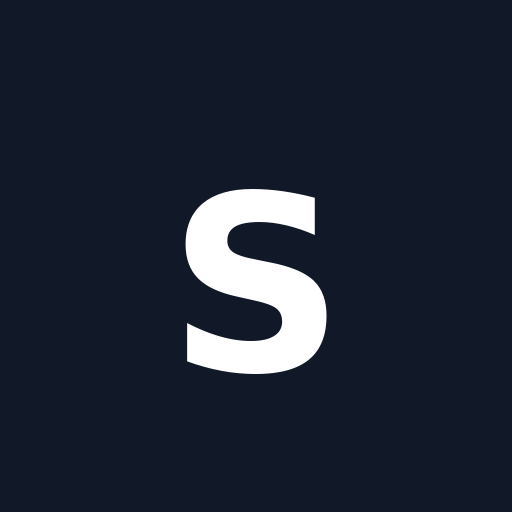
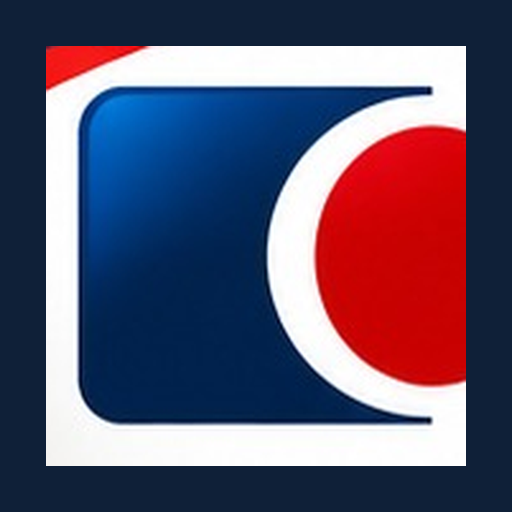
Add files via upload

diff --git a/app/src/main/assets/www/style.css b/app/src/main/assets/www/style.css
@@ -1,1 +1,1 @@
-*{box-sizing:border-box}html{scroll-behavior:smooth}body{margin:0;background:#f5f7fb;color:#172033;font-family:Arial,sans-serif;padding-bottom:78px}body.modal-open{overflow:hidden}header{height:70px;background:#fff;border-bottom:1px solid #e6e9ef;display:flex;align-items:center;justify-content:space-between;padding:0 20px;position:sticky;top:0;z-index:5}.search-icon{border:0;background:none;font-size:28px;cursor:pointer}.brand{display:flex;align-items:center;gap:10px}.brand>b{width:40px;height:40px;border-radius:12px;background:#111827;color:#fff;display:grid;place-items:center;font-size:22px}.brand strong,.brand small{display:block}.brand strong{font-size:19px}.brand small{color:#7b8495;font-size:11px;margin-top:3px}.hero{background:#fff;padding:28px 20px 22px}.hero label{font-size:11px;font-weight:800;letter-spacing:1.5px;color:#7a8494}.hero h1{font-size:29px;margin:8px 0}.hero p{color:#6e7889;font-size:14px;margin:0 0 18px}.search{height:50px;background:#f7f8fa;border:1px solid #e0e5ed;border-radius:14px;display:flex;align-items:center;padding:0 13px;gap:8px}.search input{border:0;outline:0;background:none;width:100%;font-size:14px}.section,section{padding:21px 20px 0;max-width:1200px;margin:auto}.head{display:flex;justify-content:space-between;align-items:center;margin-bottom:12px}.head h2{font-size:18px;margin:0}.head button{border:0;background:none;font-weight:700;color:#475569;cursor:pointer}.head em{font-style:normal;background:#e9edf3;border-radius:20px;padding:5px 9px;font-size:12px}.cats{display:flex;gap:8px;overflow:auto;padding-bottom:4px;scrollbar-width:none}.cats::-webkit-scrollbar{display:none}.cat{white-space:nowrap;border:1px solid #e1e6ee;background:#fff;border-radius:13px;padding:11px 13px;font-weight:700;font-size:12px;cursor:pointer}.cat.active{background:#111827;color:#fff}.status{font-size:12px;color:#7b8495;margin:0 0 10px}.grid{display:grid;grid-template-columns:repeat(2,minmax(0,1fr));gap:13px}.card{background:#fff;border:1px solid #e5e9ef;border-radius:16px;overflow:hidden;box-shadow:0 2px 8px rgba(20,32,51,.03)}.card-main{padding:0;border:0;background:none;width:100%;text-align:left;cursor:pointer}.cover{height:175px;background:linear-gradient(135deg,#eef1f5,#dfe4eb);display:grid;place-items:center;position:relative;overflow:hidden}.cover img{width:100%;height:100%;object-fit:cover;transition:transform .25s}.card:hover .cover img{transform:scale(1.02)}.mark{font-size:42px;font-weight:900;color:#7a8494}.tag{position:absolute;top:9px;left:9px;background:#fff;padding:5px 7px;border-radius:8px;font-size:9px;font-weight:800;box-shadow:0 2px 8px rgba(0,0,0,.08)}.body{padding:12px}.brand-name{font-size:10px;color:#8992a1;font-weight:800;text-transform:uppercase}.body h3{font-size:14px;margin:4px 0 6px;color:#172033}.body p{font-size:11px;color:#7a8494;min-height:30px;margin:0}.card-actions{display:grid;grid-template-columns:1fr 1fr;gap:7px;padding:0 12px 12px}.btn{border:1px solid #dfe4ea;border-radius:10px;padding:10px 6px;text-align:center;text-decoration:none;font-size:11px;font-weight:800;color:#263244;background:#fff;cursor:pointer;display:inline-flex;align-items:center;justify-content:center;min-height:38px}.primary{background:#111827;color:#fff;border-color:#111827}.empty{grid-column:1/-1;text-align:center;padding:38px 20px;background:#fff;border:1px dashed #dce1e8;border-radius:15px;color:#7b8495}.empty strong,.empty span{display:block}.empty strong{color:#354154;margin-bottom:5px}.empty span{font-size:12px}nav{position:fixed;bottom:0;left:0;right:0;height:68px;padding-bottom:env(safe-area-inset-bottom);background:#fff;border-top:1px solid #e6e9ef;display:flex;justify-content:center;gap:50px;z-index:10}nav button{border:0;background:none;color:#8a93a2;font-size:21px;cursor:pointer}nav button.active{color:#111827}nav small{display:block;font-size:10px;font-weight:bold}.modal-root{display:none}.modal-root.open{display:block}.modal-backdrop{position:fixed;inset:0;background:rgba(15,23,42,.58);z-index:50;display:flex;align-items:flex-end;justify-content:center;padding:0}.modal{position:relative;background:#fff;width:100%;max-width:620px;max-height:92vh;overflow:auto;border-radius:22px 22px 0 0;box-shadow:0 -10px 40px rgba(0,0,0,.2)}.close{position:absolute;right:12px;top:12px;width:38px;height:38px;border:0;border-radius:50%;background:rgba(255,255,255,.94);font-size:26px;line-height:1;z-index:2;cursor:pointer}.detail-cover{height:310px;background:linear-gradient(135deg,#eef1f5,#dfe4eb);display:grid;place-items:center;overflow:hidden}.detail-cover img{width:100%;height:100%;object-fit:cover}.detail-mark{font-size:80px;font-weight:900;color:#7a8494}.detail-content{padding:20px}.detail-tag{display:inline-block;background:#eef2f6;border-radius:8px;padding:6px 8px;font-size:10px;font-weight:800}.detail-brand{font-size:11px;color:#8992a1;font-weight:800;text-transform:uppercase;margin-top:14px}.detail-content h2{font-size:23px;margin:5px 0 8px}.detail-content p{color:#687386;font-size:13px;line-height:1.55;margin:0 0 18px}.detail-actions{display:grid;grid-template-columns:1fr 1fr;gap:8px}.detail-actions .btn:last-child{grid-column:1/-1}.big{min-height:44px;font-size:12px}@media(min-width:760px){.grid{grid-template-columns:repeat(4,1fr)}.cover{height:210px}.modal-backdrop{align-items:center;padding:20px}.modal{border-radius:22px;max-height:88vh}.detail-cover{height:340px}}@media(max-width:390px){.grid{grid-template-columns:1fr}.cover{height:210px}.card-actions{grid-template-columns:1fr 1fr}.hero h1{font-size:26px}}
+*{box-sizing:border-box}html{scroll-behavior:smooth}body{margin:0;background:#f5f7fb;color:#172033;font-family:Arial,sans-serif;padding-bottom:78px}body.modal-open{overflow:hidden}header{height:70px;background:#fff;border-bottom:1px solid #e6e9ef;display:flex;align-items:center;justify-content:space-between;padding:0 20px;position:sticky;top:0;z-index:5}.search-icon{border:0;background:none;font-size:28px;cursor:pointer}.brand{display:flex;align-items:center;justify-content:space-between;width:100%}.brand-logo{display:block;width:188px;height:54px;object-fit:contain;object-position:left center}.brand .search-icon{margin-left:auto}.hero{background:#fff;padding:28px 20px 22px}.hero label{font-size:11px;font-weight:800;letter-spacing:1.5px;color:#7a8494}.hero h1{font-size:29px;margin:8px 0}.hero p{color:#6e7889;font-size:14px;margin:0 0 18px}.search{height:50px;background:#f7f8fa;border:1px solid #e0e5ed;border-radius:14px;display:flex;align-items:center;padding:0 13px;gap:8px}.search input{border:0;outline:0;background:none;width:100%;font-size:14px}.section,section{padding:21px 20px 0;max-width:1200px;margin:auto}.head{display:flex;justify-content:space-between;align-items:center;margin-bottom:12px}.head h2{font-size:18px;margin:0}.head button{border:0;background:none;font-weight:700;color:#475569;cursor:pointer}.head em{font-style:normal;background:#e9edf3;border-radius:20px;padding:5px 9px;font-size:12px}.cats{display:flex;gap:8px;overflow:auto;padding-bottom:4px;scrollbar-width:none}.cats::-webkit-scrollbar{display:none}.cat{white-space:nowrap;border:1px solid #e1e6ee;background:#fff;border-radius:13px;padding:11px 13px;font-weight:700;font-size:12px;cursor:pointer}.cat.active{background:#111827;color:#fff}.status{font-size:12px;color:#7b8495;margin:0 0 10px}.grid{display:grid;grid-template-columns:repeat(2,minmax(0,1fr));gap:13px}.card{background:#fff;border:1px solid #e5e9ef;border-radius:16px;overflow:hidden;box-shadow:0 2px 8px rgba(20,32,51,.03)}.card-main{padding:0;border:0;background:none;width:100%;text-align:left;cursor:pointer}.cover{height:175px;background:linear-gradient(135deg,#eef1f5,#dfe4eb);display:grid;place-items:center;position:relative;overflow:hidden}.cover img{width:100%;height:100%;object-fit:cover;transition:transform .25s}.cover img.fallback-logo{width:88%;height:88%;object-fit:contain;padding:20px}.card:hover .cover img{transform:scale(1.02)}.card:hover .cover img.fallback-logo{transform:none}.mark{font-size:42px;font-weight:900;color:#7a8494}.tag{position:absolute;top:9px;left:9px;background:#fff;padding:5px 7px;border-radius:8px;font-size:9px;font-weight:800;box-shadow:0 2px 8px rgba(0,0,0,.08)}.body{padding:12px}.brand-name{font-size:10px;color:#8992a1;font-weight:800;text-transform:uppercase}.body h3{font-size:14px;margin:4px 0 6px;color:#172033}.body p{font-size:11px;color:#7a8494;min-height:30px;margin:0}.card-actions{display:grid;grid-template-columns:1fr 1fr;gap:7px;padding:0 12px 12px}.btn{border:1px solid #dfe4ea;border-radius:10px;padding:10px 6px;text-align:center;text-decoration:none;font-size:11px;font-weight:800;color:#263244;background:#fff;cursor:pointer;display:inline-flex;align-items:center;justify-content:center;min-height:38px}.primary{background:#111827;color:#fff;border-color:#111827}.empty{grid-column:1/-1;text-align:center;padding:38px 20px;background:#fff;border:1px dashed #dce1e8;border-radius:15px;color:#7b8495}.empty strong,.empty span{display:block}.empty strong{color:#354154;margin-bottom:5px}.empty span{font-size:12px}nav{position:fixed;bottom:0;left:0;right:0;height:68px;padding-bottom:env(safe-area-inset-bottom);background:#fff;border-top:1px solid #e6e9ef;display:flex;justify-content:center;gap:50px;z-index:10}nav button{border:0;background:none;color:#8a93a2;font-size:21px;cursor:pointer}nav button.active{color:#111827}nav small{display:block;font-size:10px;font-weight:bold}.modal-root{display:none}.modal-root.open{display:block}.modal-backdrop{position:fixed;inset:0;background:rgba(15,23,42,.58);z-index:50;display:flex;align-items:flex-end;justify-content:center;padding:0}.modal{position:relative;background:#fff;width:100%;max-width:620px;max-height:92vh;overflow:auto;border-radius:22px 22px 0 0;box-shadow:0 -10px 40px rgba(0,0,0,.2)}.close{position:absolute;right:12px;top:12px;width:38px;height:38px;border:0;border-radius:50%;background:rgba(255,255,255,.94);font-size:26px;line-height:1;z-index:2;cursor:pointer}.detail-cover{height:310px;background:linear-gradient(135deg,#eef1f5,#dfe4eb);display:grid;place-items:center;overflow:hidden}.detail-cover img{width:100%;height:100%;object-fit:cover}.detail-cover img.fallback-logo{width:88%;height:88%;object-fit:contain;padding:24px}.detail-logo{max-width:520px}.detail-mark{font-size:80px;font-weight:900;color:#7a8494}.detail-content{padding:20px}.detail-tag{display:inline-block;background:#eef2f6;border-radius:8px;padding:6px 8px;font-size:10px;font-weight:800}.detail-brand{font-size:11px;color:#8992a1;font-weight:800;text-transform:uppercase;margin-top:14px}.detail-content h2{font-size:23px;margin:5px 0 8px}.detail-content p{color:#687386;font-size:13px;line-height:1.55;margin:0 0 18px}.detail-actions{display:grid;grid-template-columns:1fr 1fr;gap:8px}.detail-actions .btn:last-child{grid-column:1/-1}.big{min-height:44px;font-size:12px}@media(min-width:760px){.grid{grid-template-columns:repeat(4,1fr)}.cover{height:210px}.modal-backdrop{align-items:center;padding:20px}.modal{border-radius:22px;max-height:88vh}.detail-cover{height:340px}}@media(max-width:390px){.grid{grid-template-columns:1fr}.cover{height:210px}.card-actions{grid-template-columns:1fr 1fr}.hero h1{font-size:26px}}

diff --git a/app/src/main/assets/www/app.js b/app/src/main/assets/www/app.js
@@ -11,14 +11,14 @@ function render(){
  const list=catalogs.filter(c=>(active==='Todos'||c.category===active)&&(!q||`${c.name} ${c.brand} ${c.category} ${c.description||''}`.toLowerCase().includes(q)));
  document.getElementById('count').textContent=list.length;
  document.getElementById('grid').innerHTML=list.length?list.map(c=>{
-   const cover=c.cover_url?`<img src="${esc(c.cover_url)}" alt="Capa de ${esc(c.name)}" loading="lazy">`:`<div class="mark">${esc((c.brand||'S')[0].toUpperCase())}</div>`;
+   const cover=c.cover_url?`<img src="${esc(c.cover_url)}" alt="Capa de ${esc(c.name)}" loading="lazy">`:`<img class="fallback-logo" src="somar-logo.png" alt="Somar Representações" loading="lazy">`;
    return `<article class="card"><button class="card-main" onclick='openCatalog(${js(c.id)})'><div class="cover">${cover}<span class="tag">${esc(c.category)}</span></div><div class="body"><div class="brand-name">${esc(c.brand||'Somar Representações')}</div><h3>${esc(c.name)}</h3><p>${esc(c.description||'Consulte o catálogo de produtos.')}</p></div></button><div class="card-actions"><button class="btn primary" onclick='openCatalog(${js(c.id)})'>Ver catálogo</button><button class="btn" onclick='shareCatalogById(${js(c.id)})'>Compartilhar</button></div></article>`;
  }).join(''):'<div class="empty"><strong>Nenhum catálogo encontrado.</strong><span>Tente outra busca ou selecione “Todos”.</span></div>';
 }
 function getCatalog(id){return catalogs.find(c=>String(c.id)===String(id))}
 function openCatalog(id){
  const c=getCatalog(id); if(!c)return;
- const cover=c.cover_url?`<img src="${esc(c.cover_url)}" alt="Capa de ${esc(c.name)}">`:`<div class="detail-mark">${esc((c.brand||'S')[0].toUpperCase())}</div>`;
+ const cover=c.cover_url?`<img src="${esc(c.cover_url)}" alt="Capa de ${esc(c.name)}">`:`<img class="fallback-logo detail-logo" src="somar-logo.png" alt="Somar Representações">`;
  const url=esc(c.pdf_url||'#');
  document.getElementById('modal').innerHTML=`<div class="modal-backdrop" onclick="closeCatalog(event)"><div class="modal" onclick="event.stopPropagation()"><button class="close" onclick="closeCatalog()" aria-label="Fechar">×</button><div class="detail-cover">${cover}</div><div class="detail-content"><span class="detail-tag">${esc(c.category)}</span><div class="detail-brand">${esc(c.brand||'Somar Representações')}</div><h2>${esc(c.name)}</h2><p>${esc(c.description||'Consulte o catálogo de produtos da Somar Representações.')}</p><div class="detail-actions"><a class="btn primary big" href="${url}" target="_blank" rel="noopener">👁 Ver catálogo</a><a class="btn big" href="${url}${url.includes('?')?'&':'?'}download=true">⬇ Baixar PDF</a><button class="btn big" onclick='shareCatalogById(${js(c.id)})'>📲 Compartilhar</button></div></div></div></div>`;
  document.getElementById('modal').classList.add('open'); document.body.classList.add('modal-open');

diff --git a/app/src/main/assets/www/index.html b/app/src/main/assets/www/index.html
@@ -6,7 +6,7 @@
 <link rel="stylesheet" href="style.css">
 </head>
 <body>
-<header><div class="brand"><b>S</b><span><strong>Somar</strong><small>Representações</small></span></div><button class="search-icon" onclick="focusSearch()" aria-label="Buscar">⌕</button></header>
+<header><div class="brand"><img src="somar-logo.png" alt="Somar Representações" class="brand-logo"><button class="search-icon" onclick="focusSearch()" aria-label="Buscar">⌕</button></div></header>
 <main>
 <section class="hero"><label>CATÁLOGOS</label><h1>Encontre seus produtos</h1><p>Todos os catálogos da Somar Representações em um só lugar.</p><div class="search"><span>⌕</span><input id="search" autocomplete="off" placeholder="Buscar por catálogo, marca ou categoria..."></div></section>
 <section><div class="head"><h2>Categorias</h2><button onclick="selectCat('Todos')">Ver todas</button></div><div id="cats" class="cats"></div></section>

diff --git a/README.md b/README.md
@@ -1,15 +1,3 @@
-# Somar Representações — Android v2
+# Somar Representações — Android v3
 
-Aplicativo Android para consulta de catálogos da equipe comercial.
-
-## Recursos v2
-- Tela de abertura com identidade Somar.
-- Interface do catálogo carregada localmente para abrir mais rápido.
-- Catálogos, capas e PDFs continuam sendo consultados do Supabase em tempo real.
-- Compartilhamento nativo do Android.
-- Abertura do WhatsApp em links de compartilhamento.
-- Download de PDFs com nome do arquivo quando disponível.
-- Compatível com Android 6.0 (API 23) ou superior.
-
-## Build
-O workflow em `.github/workflows/build-apk.yml` gera o APK de teste em `assembleDebug`.
+Versão 3.0 com identidade visual da Somar Representações, categoria Ferramentas e fallback de capa usando a logo oficial. Os catálogos continuam sendo carregados do Supabase.
